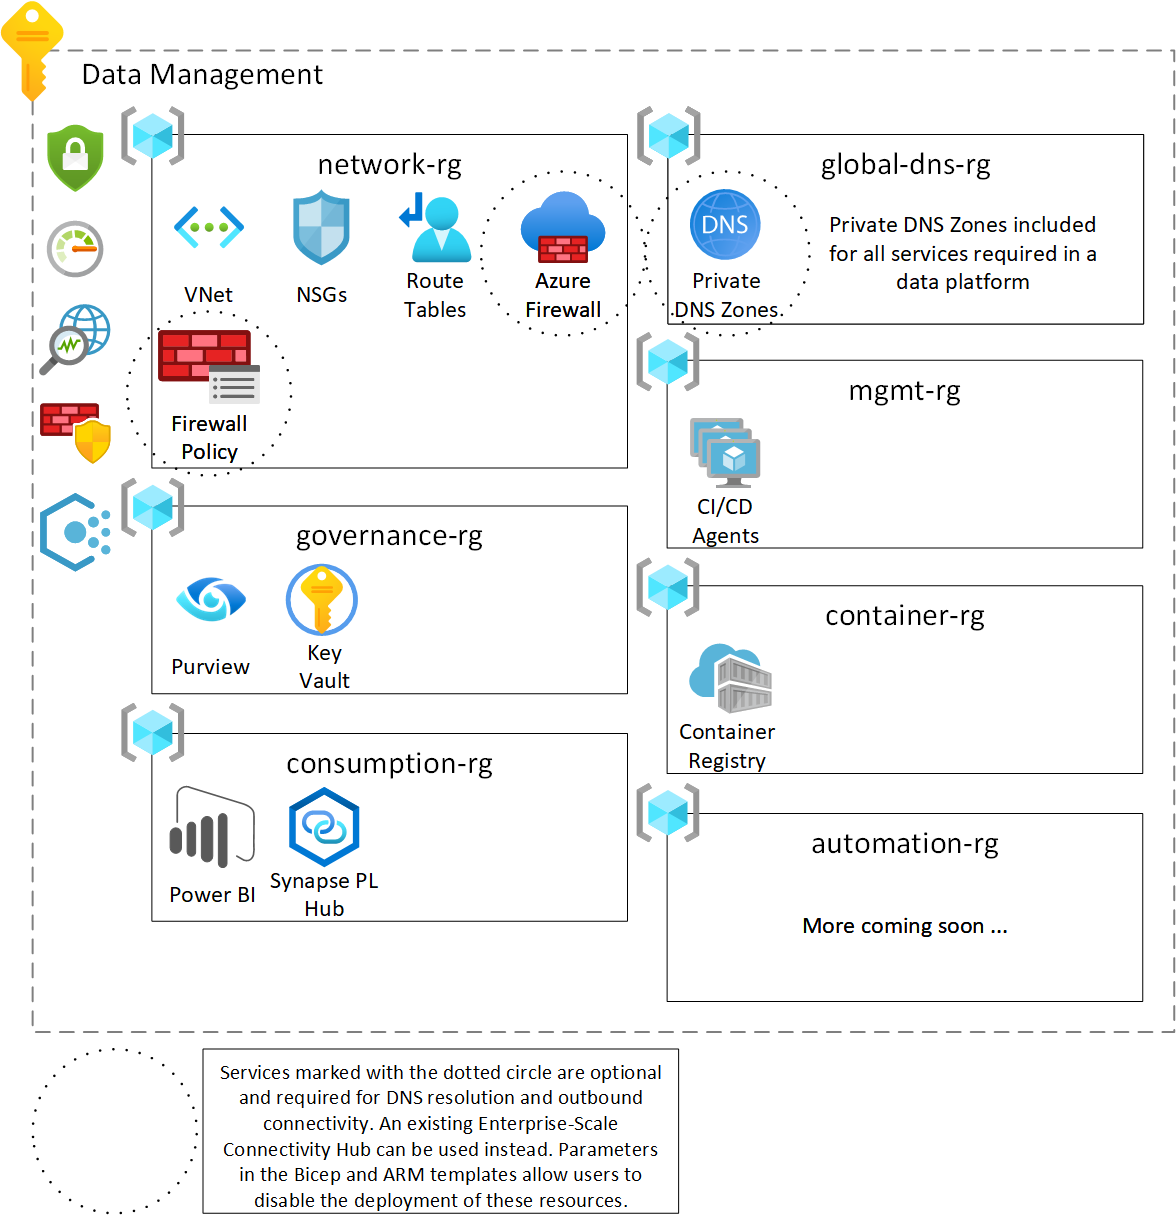
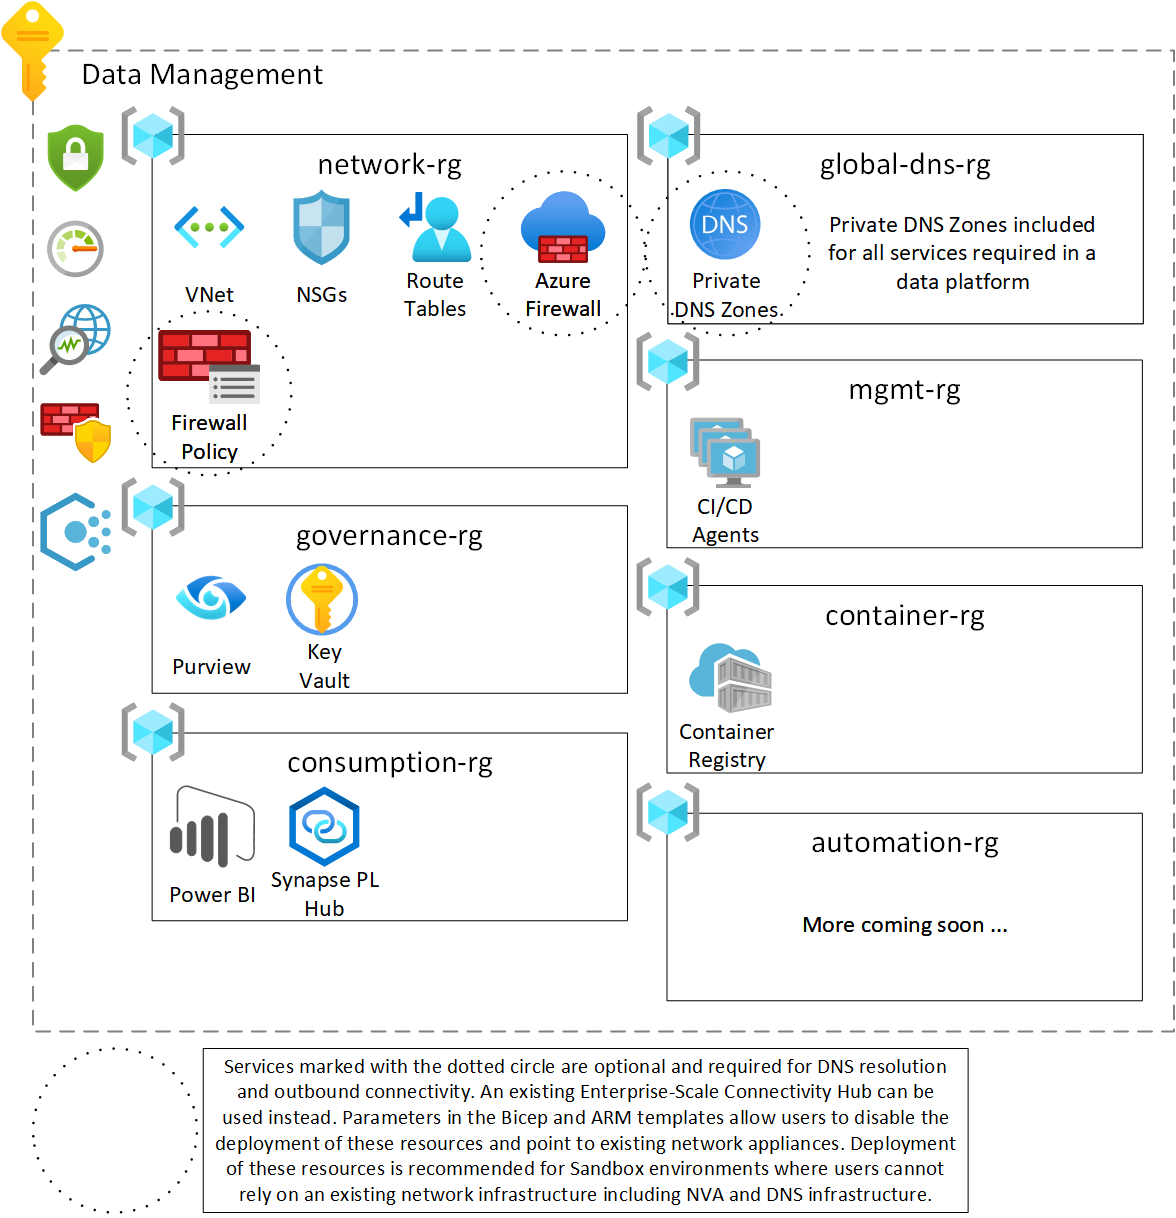
added another update

diff --git a/docs/EnterpriseScaleAnalytics-Prerequisites.md b/docs/EnterpriseScaleAnalytics-Prerequisites.md
@@ -4,7 +4,7 @@ This template repsitory contains all templates to deploy the Data Management Zon
 
 ## What will be deployed?
 
-By navigating through the deployment steps, you will deploy the folowing setup in a subscription:
+By navigating through the deployment steps, you will deploy the following setup in a subscription:
 
 > **Note:** Before deploying the resources, we recommend to check registration status of the required resource providers in your subscription. For more information, see [Resource providers for Azure services](https://docs.microsoft.com/azure/azure-resource-manager/management/resource-providers-and-types).
 
@@ -15,16 +15,15 @@ The deployment and code artifacts include the following services:
 - [Virtual Network](https://docs.microsoft.com/azure/virtual-network/virtual-networks-overview)
 - [Network Security Groups](https://docs.microsoft.com/azure/virtual-network/network-security-groups-overview)
 - [Route Tables](https://docs.microsoft.com/azure/virtual-network/virtual-networks-udr-overview)
-- [Azure Firewall](https://docs.microsoft.com/azure/firewall/overview)
-- [Firewall Policy](https://docs.microsoft.com/azure/firewall-manager/policy-overview#:~:text=Firewall%20Policy%20is%20an%20Azure,work%20across%20regions%20and%20subscriptions.)
-- [Private DNS Zones](https://docs.microsoft.com/azure/dns/private-dns-privatednszone#:~:text=By%20using%20private%20DNS%20zones,that%20are%20linked%20to%20it.)
+- [Azure Firewall](https://docs.microsoft.com/azure/firewall/overview) (optional)
+- [Firewall Policy](https://docs.microsoft.com/azure/firewall-manager/policy-overview#:~:text=Firewall%20Policy%20is%20an%20Azure,work%20across%20regions%20and%20subscriptions.) (optional)
+- [Private DNS Zones](https://docs.microsoft.com/azure/dns/private-dns-privatednszone#:~:text=By%20using%20private%20DNS%20zones,that%20are%20linked%20to%20it.) (optional)
 - [Container Registry](https://docs.microsoft.com/azure/container-registry/)
 - [Purview](https://docs.microsoft.com/azure/purview/)
 - [Key Vault](https://docs.microsoft.com/azure/key-vault/general)
 - [Storage Account](https://docs.microsoft.com/azure/storage/common/storage-account-overview)
 - [Synapse Private Link Hub](https://docs.microsoft.com/azure/synapse-analytics/security/synapse-private-link-hubs)
 - [PowerBI](https://docs.microsoft.com/power-bi/fundamentals/power-bi-overview)
-- [Policies](https://docs.microsoft.com/azure/governance/policy/overview)
 
 ## Code Structure
 
